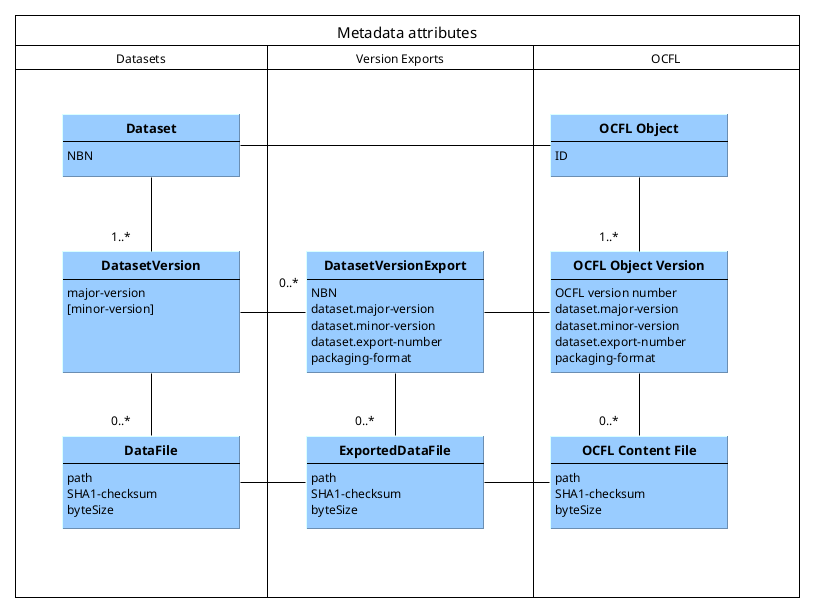
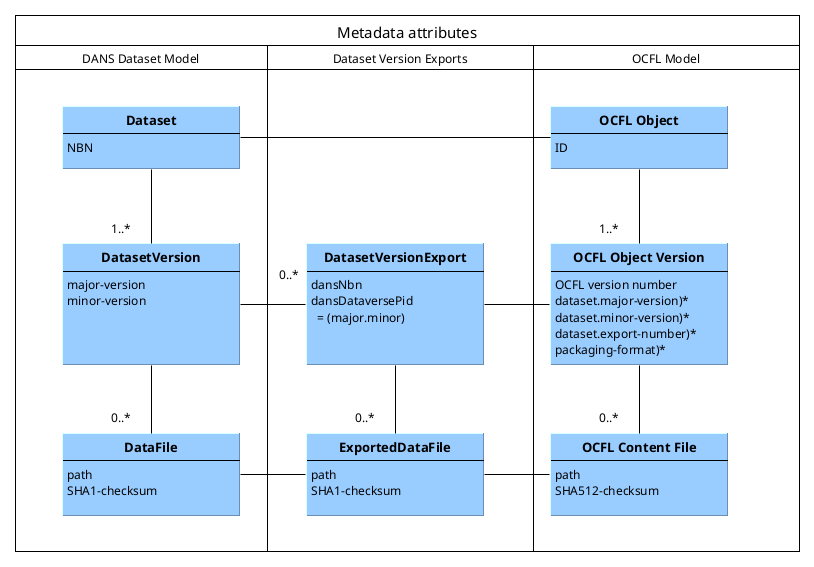
wip

diff --git a/docs/stylesheets/extra.css b/docs/stylesheets/extra.css
@@ -1,0 +1,21 @@
+/* Custom CSS for dans-datastation-architecture */
+
+/* Ensure tables are limited to the width of the page and wrap text in cells */
+.wy-table-responsive table {
+    width: 100% !important;
+}
+
+.wy-table-responsive td, .wy-table-responsive th {
+    white-space: normal !important;
+    word-break: break-word !important;
+}
+
+table {
+    width: 100%;
+    table-layout: auto;
+}
+
+td, th {
+    word-wrap: break-word;
+    white-space: normal;
+}

diff --git a/docs/data-vault-storage-root.md b/docs/data-vault-storage-root.md
@@ -20,7 +20,6 @@ current ones.
 
 OCFL repositories
 -----------------
-
 The DANS Data Vault is implemented as an array of **OCFL** repositories. OCFL stands for [Oxford Common File Layout]{:target=_blank}. It is a community
 specification for the layout of a repository that stores versioned digital objects. Each repository, or "storage root," is one
 **Data Vault Storage Root (DVSR)**. The Data Stations each have their own DVSR as does each customer of the Vault as a Service.
@@ -42,7 +41,12 @@ Dataset model mapping
 ---------------------
 
 OCFL is a generic storage model. It does not define the concept of a dataset. The DANS archival systems (Data Stations and Vault as a Service), on the other
-hand, are built around the dataset concept. The mapping between the two models is as follows:
+hand, are built around the dataset concept. It is essential that the datasets stored in the Vault can be reconstructed from the OCFL objects. For this purpose
+this section documents the mapping between the two models.
+
+### Basic mapping scheme
+
+The basic mapping scheme is concerned with reconstructing datasets and their version history from OCFL objects.
 
 | DANS dataset model | OCFL model          | Multiplicity |
 |--------------------|---------------------|--------------|
@@ -50,9 +54,9 @@ hand, are built around the dataset concept. The mapping between the two models i
 | Dataset Version    | OCFL Object Version | 1-to-1..*    |
 | Datafile           | OCFL Content File   | 1-to-1       |
 
-### Versions
+### Versions vs Version Exports
 
-Each Dataset Version is exported from Dataverse (or the VaaS customer's own system) and stored in a separate OCFL Object Version. This means that there is a
+Each Dataset Version is exported from Dataverse (or from the VaaS client's own system) and stored in a separate OCFL Object Version. This means that there is a
 1-to-1 mapping between a Dataset Version Export and an OCFL Object Version. Note, however, that it is possible that one Dataset Version is exported multiple
 times. The mapping of a dataset version to an OCFL Object is therefore a 1-to-_n_ relationship (with _n > 0_)
 
@@ -62,40 +66,33 @@ times. The mapping of a dataset version to an OCFL Object is therefore a 1-to-_n
     be done by a superuser and is known as **"updatecurrent"**. A new Dataset Version Export will be created and therefore a new OCFL Object Version will be 
     created as well. The Data Station version history, however, will **not** display an additional version.
 
-### Metadata
+### Making sense of a version export
 
-The following diagram gives an overview of the attributes used to record the identity and version history of the datasets stored in the Vault, as well as
-specifying other important properties such as the packaging format and whether the dataset version has been deaccessioned (not implemented yet).
+Apart from determining now a series of Data Version Exports constitute the version history of a dataset, it is also important to be able to interpret each
+individual DVE correctly. Over time, the way datasets are exported may change. For example, the layout of the exported files and the metadata included may be
+different. That is why each OCFL Object Version has a packaging format attribute.
+
+!!! note "BagPack"
+
+    The current packaging format is called **[BagPack]{:target=_blank}**. It is a recommendation by the Research Data Alliance (RDA) and is implemented as an 
+    export/import format by Dataverse. For VaaS, DANS has implement BagPack to closely resemble the Dataverse implementation.
+
+[BagPack]: {{ bagpack_specs }}
+
+### Structural attributes
+
+The following diagram gives an overview of the structural attributes and how they are mapped to the OCFL model.
+
+Key to the columns:
+
+* **DANS Dataset Model**: how DANS conceptualizes datasets. This includes both Dataverse and VaaS datasets.
+* **Dataset Version Exports**: the relevant properties of the exported datasets versions.
+* **OCFL Model**: how OCFL conceptualizes objects and their versions. Note that the attributes marked with `)*` are custom version properties defined using the
+  [Object Version Properties](#extensions) extension.
 
 ![Vault metadata](vault-metadata.png){: .align-center}
 
-
-<style>
-  table {
-    font-size: 0.8em;
-    width: 100%;
-    table-layout: fixed; /* Forces columns to respect width and wrap text */
-    border-collapse: collapse;
-  }
-  table th, table td {
-    overflow-wrap: break-word; /* Wraps long words */
-    word-wrap: break-word;     /* Legacy support */
-    white-space: normal; /* Ensures text doesn't stay on one line */
-  }
-
-  /* Target the first column (Attribute) */
-  table td:nth-child(1), table th:nth-child(1) {
-    width: 15%;
-  }
-  /* Target the second column (Source) */
-  table td:nth-child(2), table th:nth-child(2) {
-    width: 25%;
-  }
-  /* Target the third column (Purpose) */
-  table td:nth-child(3), table th:nth-child(3) {
-    width: 50%;
-  }
-</style>
+The following table makes explicit where the various attributes originate from and what their purpose is.
 
 | Attribute                  | Source                                | Purpose                                                    |
 |----------------------------|---------------------------------------|------------------------------------------------------------|
@@ -106,10 +103,6 @@ specifying other important properties such as the packaging format and whether t
 | dataset.export-number      | Nth export of the dataset version     | Establishing the version history of the original dataset   |
 | packaging-format           | Packaging format used for the DVE     | Recording the layout of the contents of the Object Version |
 
-The full metadata of each dataset version is stored, but the way it is stored depends on the packaging format used. The current packaging format is based on
-Dataverse implementation of [RDA BagPack]{:target=_blank}.
-
-[RDA BagPack]: {{ bagpack_specs }}
 [bag]: {{ bagit_specs }}
 [Oxford Common File Layout]: {{ ocfl_url }}
 
